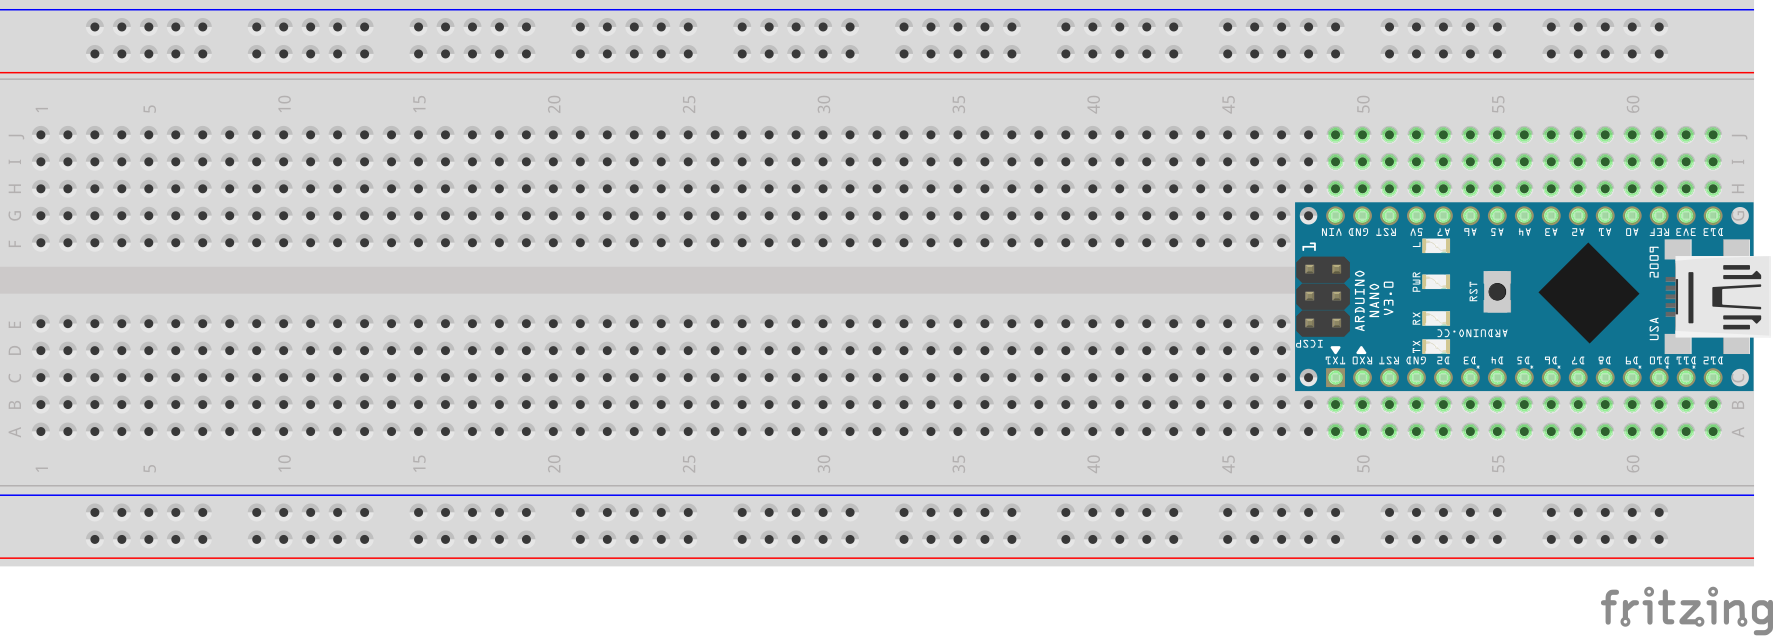
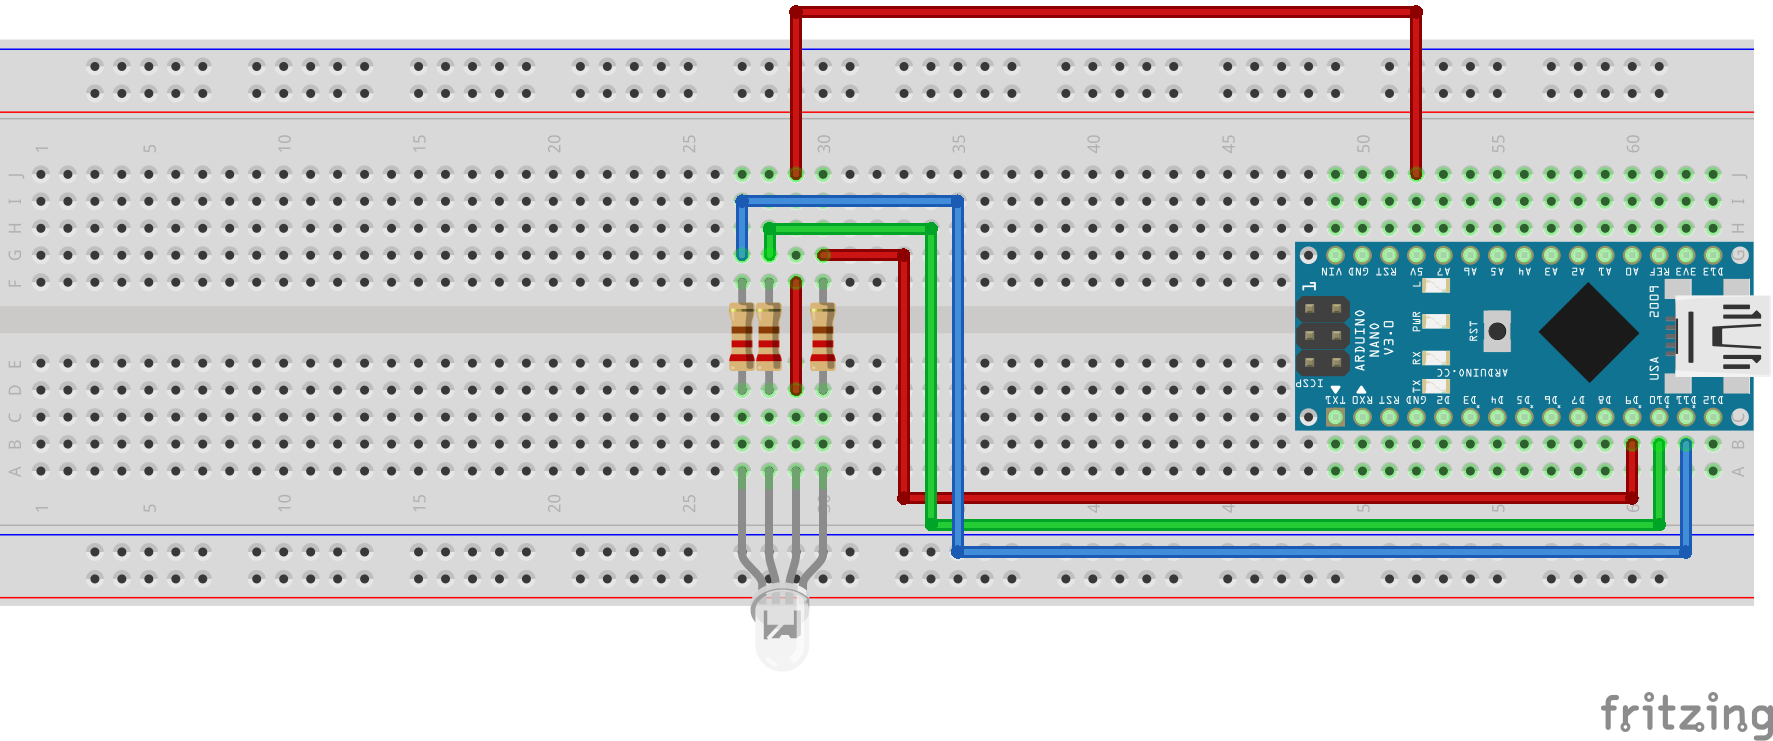
chore exercise 4 fritzing

diff --git a/O4_1/assets/fritzing/schema_bom.html b/O4_1/assets/fritzing/schema_bom.html
@@ -1,0 +1,96 @@
+<!DOCTYPE html PUBLIC "-//W3C//DTD XHTML 1.0 Transitional//EN" "http://www.w3.org/TR/xhtml1/DTD/xhtml1-transitional.dtd">
+<html xmlns="http://www.w3.org/1999/xhtml">
+<head>
+<meta http-equiv="Content-Type" content="text/html; charset=utf-8" />
+<title>Fritzing Bill of Materials</title>
+<style type="text/css">
+.meta {
+	font-size: small;
+	margin: 0.4em 0;
+}
+table {
+	border-collapse: collapse;
+}
+th {
+	font-weight: bold;
+	text-align: left;
+	border-bottom: 1px solid black;
+	padding: 0.1em 1.5em 0.2em 0.1em;
+}
+td {
+	border-bottom: 1px solid #CCC;
+	padding: 0.5em 1.5em 0.5em 0.1em;
+}
+.props {
+	font-size: smaller;
+}
+</style>
+</head>
+
+<body>
+<h1>Bill of Materials: schema.fzz</h1>
+<p class="meta">/Users/maartenpaauw/Code/School/IMTHE1/O4_1/assets/fritzing/schema.fzz</p>
+<p class="meta">maandag, maart 12 2018, 16:36:17</p>
+
+<h2>Assembly List</h2>
+<table>
+
+  <thead>
+   <tr>
+    <th>Label</th>
+    <th>Part Type</th>
+    <th>Properties</th>
+    </tr>
+  </thead>
+  <tbody>
+  <tr>
+    <td>LED1</td>
+    <td>RGB LED - (4 legs)</td>
+    <td class="props">rgb RGB; pakket 5 mm [THT]; polarity common anode; pin order rgb</td>
+</tr><tr>
+    <td>Onderdeel2</td>
+    <td>Arduino Nano (Rev3.0)</td>
+    <td class="props">type Arduino Nano (3.0)</td>
+</tr><tr>
+    <td>R1</td>
+    <td>220Ω Resistor</td>
+    <td class="props">weerstand 220Ω; pakket THT; pin afstanden 400 mil; bands 4; tolerantie ±5%</td>
+</tr><tr>
+    <td>R2</td>
+    <td>220Ω Resistor</td>
+    <td class="props">weerstand 220Ω; pakket THT; pin afstanden 400 mil; bands 4; tolerantie ±5%</td>
+</tr><tr>
+    <td>R3</td>
+    <td>220Ω Resistor</td>
+    <td class="props">weerstand 220Ω; pakket THT; pin afstanden 400 mil; bands 4; tolerantie ±5%</td>
+</tr>
+  </tbody>
+</table>
+<h2>Shopping List</h2>
+<table>
+  <thead>
+	<tr>
+    <th>Amount</th>
+    <th>Part Type</th>
+    <th>Properties</th>
+    </tr>
+  </thead>
+  <tbody>
+<tr>
+    <td>1</td>
+    <td>RGB LED - (4 legs)</td>
+    <td class="props">rgb RGB; pakket 5 mm [THT]; polarity common anode; pin order rgb</td>
+</tr><tr>
+    <td>1</td>
+    <td>Arduino Nano (Rev3.0)</td>
+    <td class="props">type Arduino Nano (3.0)</td>
+</tr><tr>
+    <td>3</td>
+    <td>220Ω Resistor</td>
+    <td class="props">weerstand 220Ω; pakket THT; pin afstanden 400 mil; bands 4; tolerantie ±5%</td>
+</tr>
+  </tbody>
+</table>
+<p class="meta"><br/>Exported with Fritzing 0.9.3- http://fritzing.org</p>
+</body>
+</html>

diff --git a/O4_1/src/main.c b/O4_1/src/main.c
@@ -8,9 +8,23 @@
 
 #include <avr/io.h>
 #include <util/delay.h>
+#include <avr/interrupt.h>
+#include <stdlib.h>
 
-int main(void)
-{
+// LED pinnen.
+#define LED_R PB1
+#define LED_G PB2
+#define LED_B PB3
+
+// Random getal tussen de 0 en 255.
+int waarde () {
+    return (rand() % 255);
+}
+
+int main(void) {
+
+    // Initialiseer de RGB LED pinnen.
+    PORTB = ((1 << LED_R) | (1 << LED_G) | (1 << LED_B));
 
     while (1)
     {

diff --git a/voorbeelden/hardware_interrupt.c b/voorbeelden/hardware_interrupt.c
@@ -11,7 +11,7 @@ ISR (PCINT2_vect) {
 
 void initInterruptPCINT18 () {
   PCICR  |= (1 << PCIE2);          // Welke bank
-  PCMSK2 |= (1 << PCINT18);       // Welke 
+  PCMSK2 |= (1 << PCINT18);       // Welke mask
   sei();
 }
 

diff --git a/O4_1/README.md b/O4_1/README.md
@@ -40,9 +40,12 @@ Het **Fritzing** schema kan ook gedownload worden via de volgende link:
 
 ### Hardware
 
-| Onderdelen                 |
-| -------------------------- |
-| Arduino Nano (v3.0) - 1×   |
+| Onderdelen               |
+| ------------------------ |
+| Arduino Nano (v3.0) - 1× |
+| RGB LED - 1×             |
+| 220Ω Resistor - 3×       |
+| Dupont kabel - 5×        |
 
 ## Code
 
